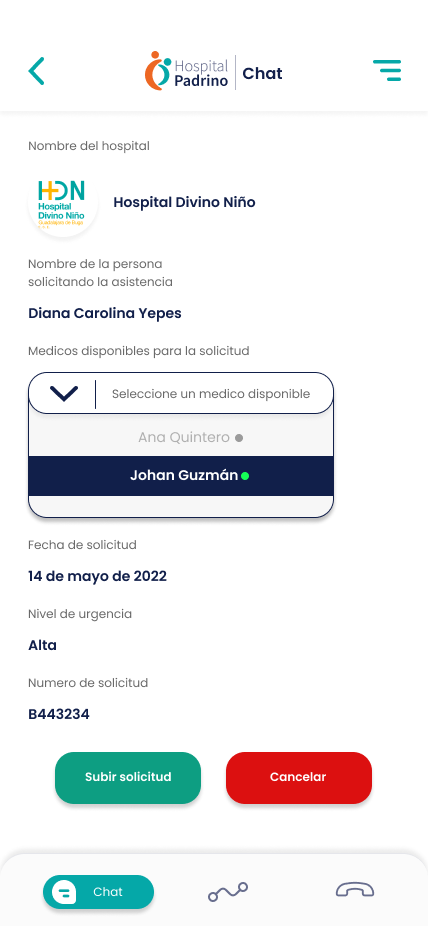
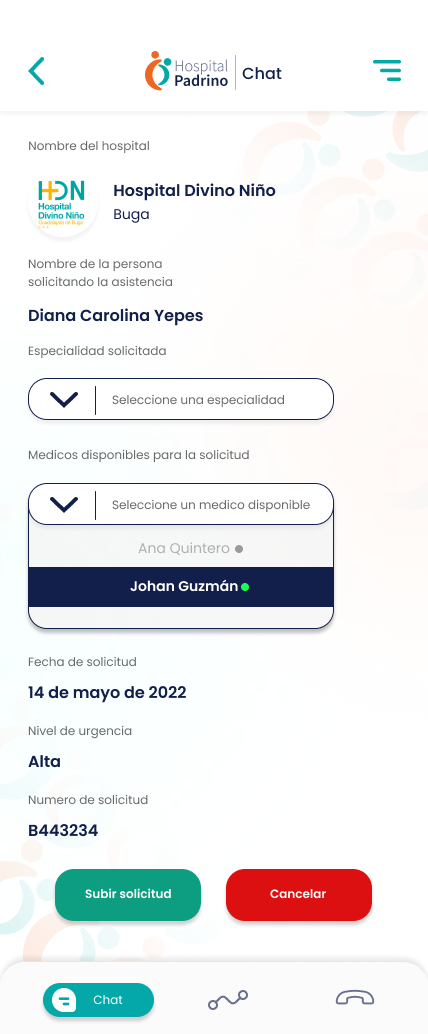
corrección de la segunda pantalla

diff --git a/sketch.js b/sketch.js
@@ -11,11 +11,11 @@ function preload() {
 }
 
 function setup() {
-  createCanvas(428, 926);
+  createCanvas(428, 1034);
 }
 
 function draw() {
-  background(220);
+  background(250);
   showScreen();
   loadingRequest();
 }
@@ -133,14 +133,14 @@ function flowRequest() {
       back(0);
       button({
         xButton: 55,
-        yButton: 752,
+        yButton: 869,
         wButton: 146,
         hButton: 52,
         screen: 2
       });
       button({
         xButton: 226,
-        yButton: 752,
+        yButton: 869,
         wButton: 146,
         hButton: 52,
         screen: 0
@@ -182,6 +182,6 @@ function loadingRequest() {
   if (currentScreen === 2) {
     setTimeout( () => {
       currentScreen = 3;
-    }, 3000)
+    }, 2000)
   }
 }
